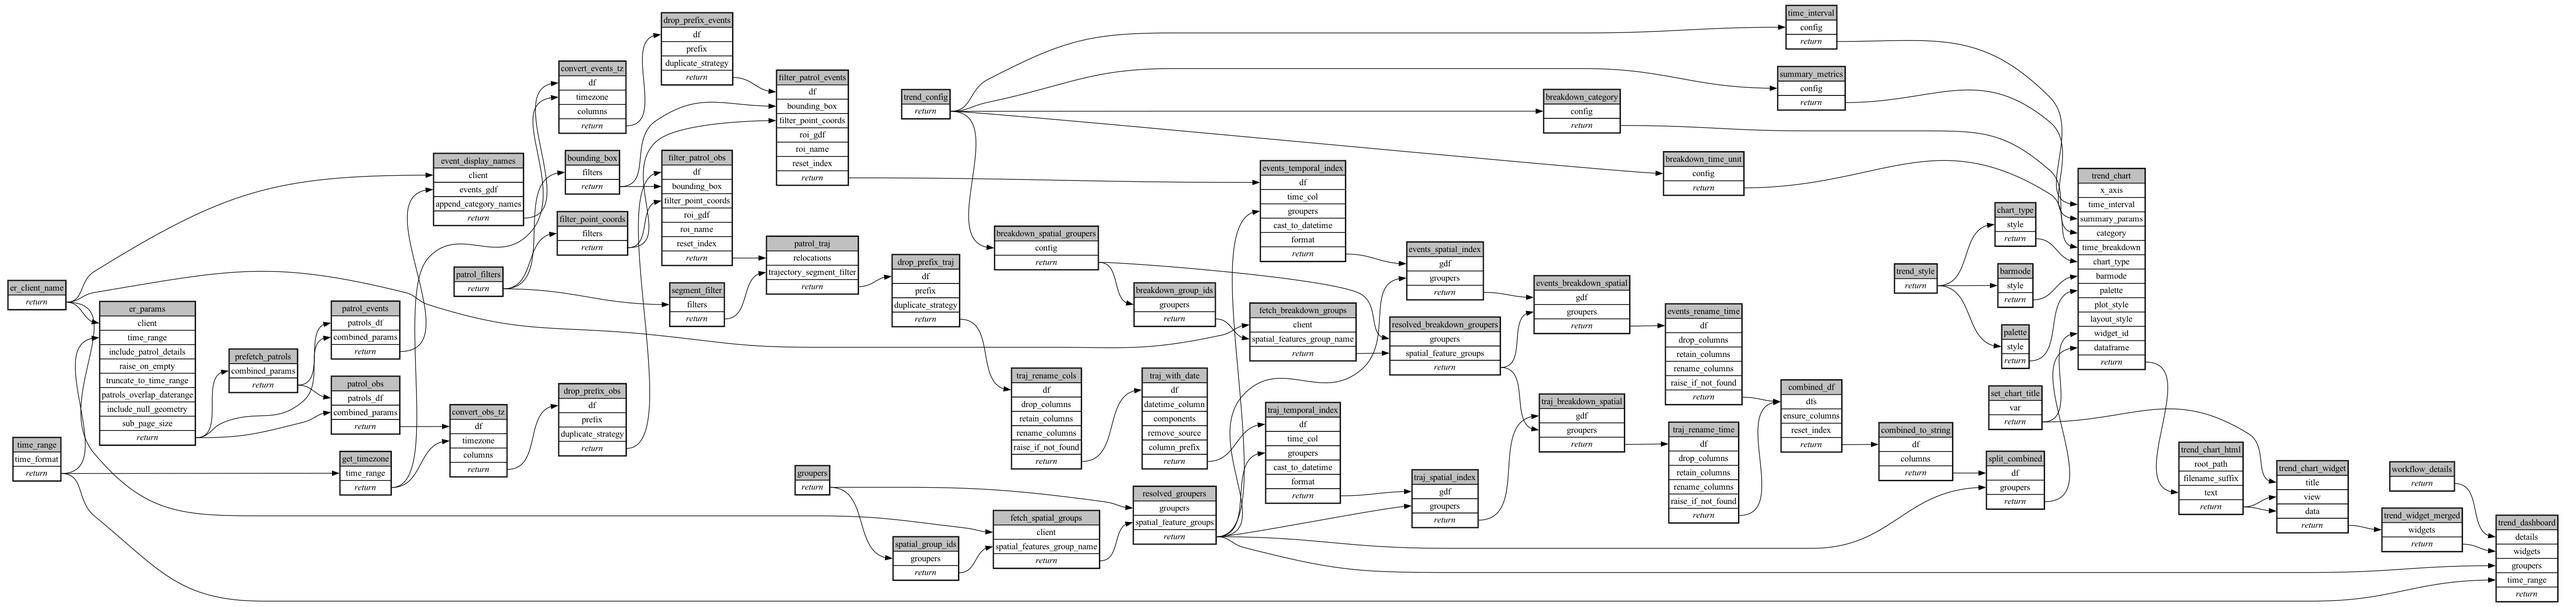
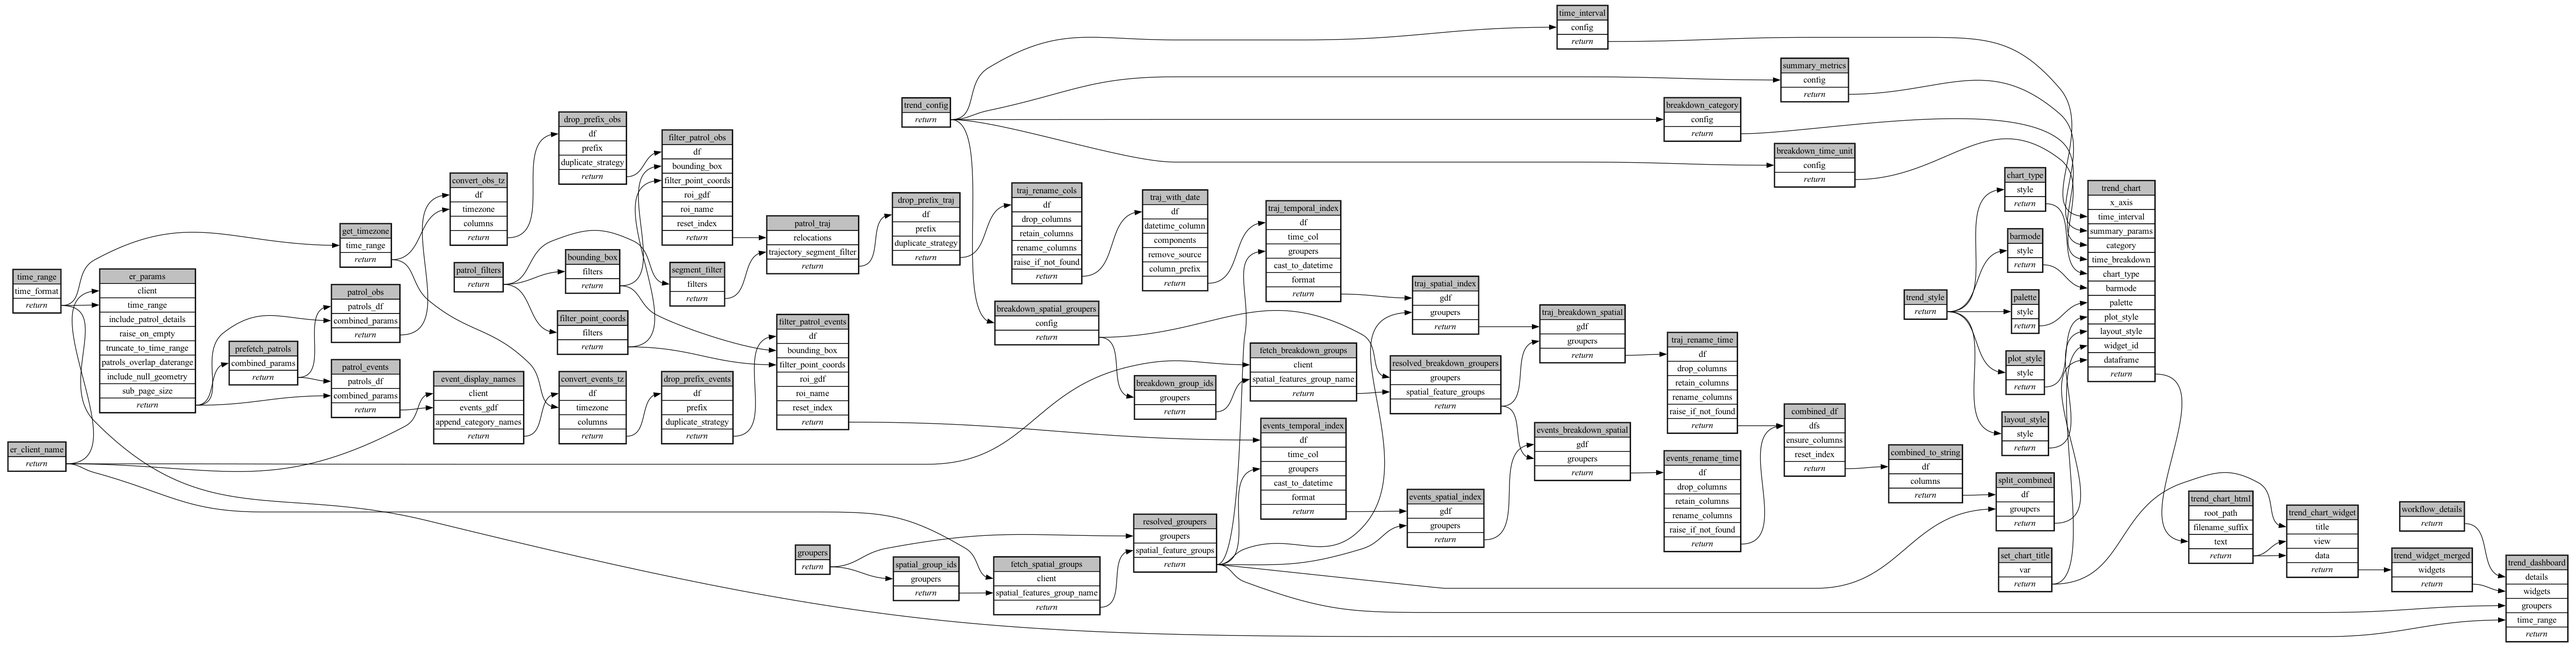
feat: Styling card Tier 1 — value labels toggle, line shape/style/markers, y-axis title
Wire draw_time_series_chart plot_style/layout_style from the new
get_style_plot_style / get_style_layout_style splitters (ecoscope
9c314c7); drop the hardcoded texttemplate partial. Test cases cover
labels-off (category-mode), spline+dashed+markerless lines with a y-axis
title (line-chart), and defaults elsewhere.

diff --git a/ecoscope-workflows-patrol-trend-plot-workflow/ecoscope_workflows_patrol_trend_plot_workflow/dags/run_sequential.py b/ecoscope-workflows-patrol-trend-plot-workflow/ecoscope_workflows_patrol_trend_plot_workflow/dags/run_sequential.py
@@ -18,7 +18,11 @@ from ecoscope.platform.tasks.config import (
 from ecoscope.platform.tasks.config import get_segment_filter as get_segment_filter
 from ecoscope.platform.tasks.config import get_style_barmode as get_style_barmode
 from ecoscope.platform.tasks.config import get_style_chart_type as get_style_chart_type
+from ecoscope.platform.tasks.config import (
+    get_style_layout_style as get_style_layout_style,
+)
 from ecoscope.platform.tasks.config import get_style_palette as get_style_palette
+from ecoscope.platform.tasks.config import get_style_plot_style as get_style_plot_style
 from ecoscope.platform.tasks.config import (
     get_trend_chart_metrics as get_trend_chart_metrics,
 )
@@ -1161,6 +1165,40 @@ def main(params: dict[str, Any], validate_params_schema: bool = True):
         .call()
     )
 
+    plot_style = (
+        task(get_style_plot_style)
+        .validate()
+        .set_task_instance_id("plot_style")
+        .handle_errors()
+        .with_tracing()
+        .skipif(
+            conditions=[
+                any_is_empty_df,
+                any_dependency_skipped,
+            ],
+            unpack_depth=1,
+        )
+        .partial(style=trend_style, **(params.get("plot_style") or {}))
+        .call()
+    )
+
+    layout_style = (
+        task(get_style_layout_style)
+        .validate()
+        .set_task_instance_id("layout_style")
+        .handle_errors()
+        .with_tracing()
+        .skipif(
+            conditions=[
+                any_is_empty_df,
+                any_dependency_skipped,
+            ],
+            unpack_depth=1,
+        )
+        .partial(style=trend_style, **(params.get("layout_style") or {}))
+        .call()
+    )
+
     trend_chart = (
         task(draw_time_series_chart)
         .validate()
@@ -1183,8 +1221,8 @@ def main(params: dict[str, Any], validate_params_schema: bool = True):
             chart_type=chart_type,
             barmode=barmode,
             palette=palette,
-            plot_style={"texttemplate": "%{y:,.2~f}", "textposition": "auto"},
-            layout_style=None,
+            plot_style=plot_style,
+            layout_style=layout_style,
             widget_id=set_chart_title,
             **(params.get("trend_chart") or {}),
         )

diff --git a/ecoscope-workflows-patrol-trend-plot-workflow/ecoscope_workflows_patrol_trend_plot_workflow/dags/run_sequential_mock_io.py b/ecoscope-workflows-patrol-trend-plot-workflow/ecoscope_workflows_patrol_trend_plot_workflow/dags/run_sequential_mock_io.py
@@ -94,7 +94,11 @@ get_spatial_features_group = create_func_magicmock(  # 🧪
 )  # 🧪
 from ecoscope.platform.tasks.config import get_style_barmode as get_style_barmode
 from ecoscope.platform.tasks.config import get_style_chart_type as get_style_chart_type
+from ecoscope.platform.tasks.config import (
+    get_style_layout_style as get_style_layout_style,
+)
 from ecoscope.platform.tasks.config import get_style_palette as get_style_palette
+from ecoscope.platform.tasks.config import get_style_plot_style as get_style_plot_style
 from ecoscope.platform.tasks.config import (
     set_trend_chart_style as set_trend_chart_style,
 )
@@ -1188,6 +1192,40 @@ def main(params: dict[str, Any], validate_params_schema: bool = True):
         .call()
     )
 
+    plot_style = (
+        task(get_style_plot_style)
+        .validate()
+        .set_task_instance_id("plot_style")
+        .handle_errors()
+        .with_tracing()
+        .skipif(
+            conditions=[
+                any_is_empty_df,
+                any_dependency_skipped,
+            ],
+            unpack_depth=1,
+        )
+        .partial(style=trend_style, **(params.get("plot_style") or {}))
+        .call()
+    )
+
+    layout_style = (
+        task(get_style_layout_style)
+        .validate()
+        .set_task_instance_id("layout_style")
+        .handle_errors()
+        .with_tracing()
+        .skipif(
+            conditions=[
+                any_is_empty_df,
+                any_dependency_skipped,
+            ],
+            unpack_depth=1,
+        )
+        .partial(style=trend_style, **(params.get("layout_style") or {}))
+        .call()
+    )
+
     trend_chart = (
         task(draw_time_series_chart)
         .validate()
@@ -1210,8 +1248,8 @@ def main(params: dict[str, Any], validate_params_schema: bool = True):
             chart_type=chart_type,
             barmode=barmode,
             palette=palette,
-            plot_style={"texttemplate": "%{y:,.2~f}", "textposition": "auto"},
-            layout_style=None,
+            plot_style=plot_style,
+            layout_style=layout_style,
             widget_id=set_chart_title,
             **(params.get("trend_chart") or {}),
         )

diff --git a/ecoscope-workflows-patrol-trend-plot-workflow/README.md b/ecoscope-workflows-patrol-trend-plot-workflow/README.md
@@ -5,8 +5,8 @@
 
 ```yaml
 # fingerprint:
-artifacts_sha256_basic: 5c79aa56853b7b3a751f6ae7183f1cf273c6e15458b718b2b3493cd41734a887
-artifacts_sha256_strict: 02fae25e370424253b485fe4a94708dc4a08b0822cbbe8a420a45a6fbed9699d
+artifacts_sha256_basic: 48bef3548d8eb9927af6b71811f0bc36855492079396a6909026f5855969bcf7
+artifacts_sha256_strict: 55203ce12fb8f7518b6dd67790379c06905d7b0ecbe958f690e598f7a51e3774
 installed_requirements:
 - channel: conda-forge
   name: python
@@ -26,8 +26,8 @@ installed_requirements:
 - channel: conda-forge
   name: pydeck
   version: {version: ==0.9.2}
-params_sha256: 486e2a133bf37c78cdd65270d868349929e251170493d0757fa509435bafc4ed
-spec_sha256: 81d0243d655e24003babe4aca95efa5e9d3a7caacfe972440d415b6205dad166
+params_sha256: eae268e1056d6e8fe73a3a8db7957f1e00e8a940004ddf73ee1063cd30247fdd
+spec_sha256: 766365759014e6ffaa69e162af3b34d15989d890a7d75bda13347b98567153da
 
 ```
 
